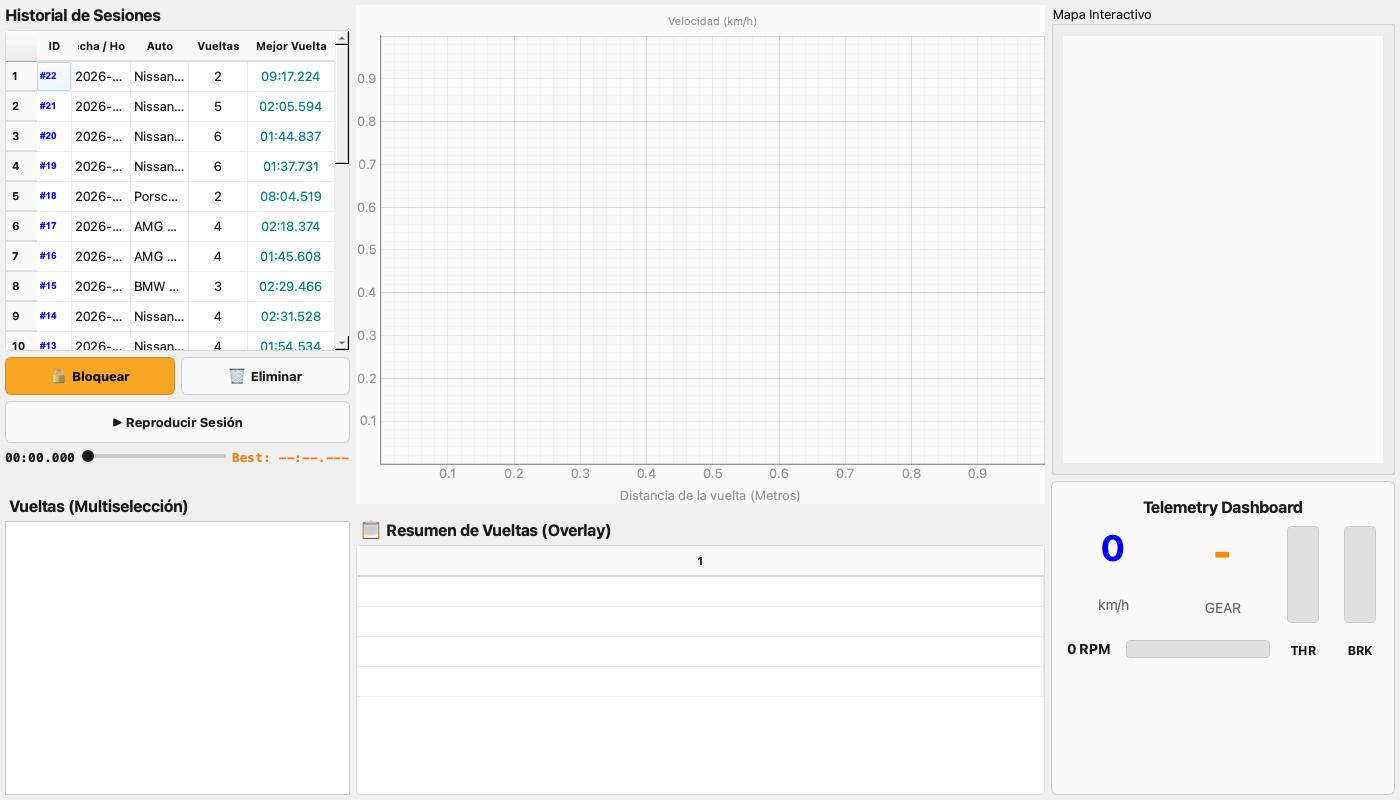
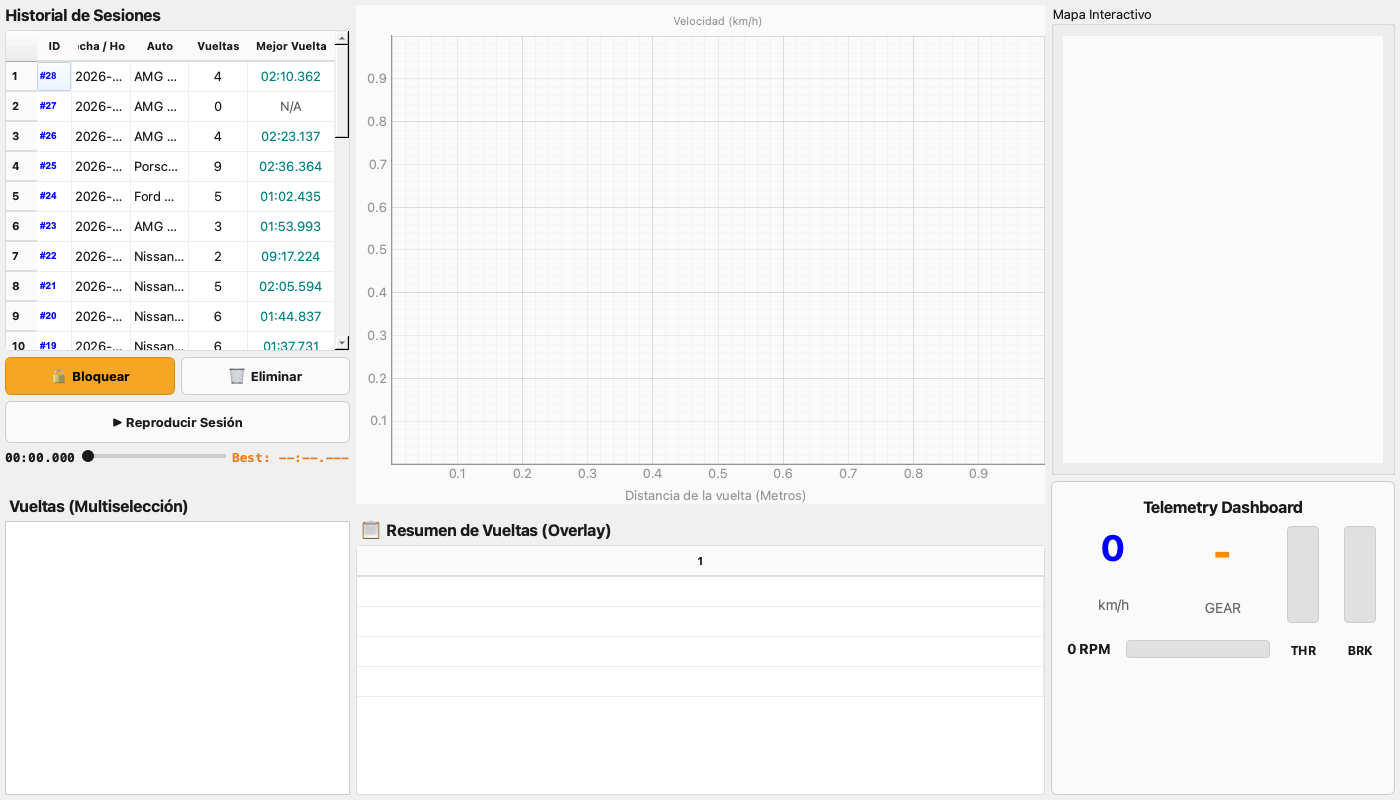
docs: Actualizar documentación técnica, Wiki, capturas y reglas de IA (v1.2.4)

diff --git a/.changelog/CHANGELOG_TECNICO.md b/.changelog/CHANGELOG_TECNICO.md
@@ -1,5 +1,29 @@
 # 📋 Registro Técnico de Cambios
 
+## docs: Actualización de documentación técnica, Wiki, capturas y reglas de IA
+
+| Campo | Detalle |
+|-------|---------|
+| **Fecha** | 2026-07-21 10:36:00 |
+| **Autor** | David Mendez ([email redacted]) |
+| **Branch** | master |
+| **Tipo** | Documentation |
+
+### Archivos Modificados
+
+| Archivo | Estado | Descripción del Cambio |
+|---------|--------|----------------------|
+| `README.md` | Modificado | Actualización de badge a v1.2.4, incorporación de detalles del hotfix QSS y auto-detección de thumbnails, regeneración de capturas y mapa de datos. |
+| `.agents/AGENTS.md` | Modificado | Actualización a versión 1.2.4, formalización de la regla de empaquetado QSS/thumbnails y adición de la Regla 23 de Caché de Vehículos. |
+| `.ai/architecture.md` | Modificado | Sincronización del grafo y árbol de arquitectura con 580 autos, 570 thumbnails PNG y 121 layouts. |
+| `docs/analysis_mode.png` | Modificado | Regeneración de captura para la documentación con datos de simulación actualizados. |
+| `docs/pro_analysis.png` | Modificado | Regeneración de captura para la vista Pro Analysis Workspace. |
+| `wiki/Home.md` | Modificado | Sincronización de versión a 1.2.4 e índice de navegación. |
+| `wiki/_Sidebar.md` | Modificado | Actualización de badge lateral a v1.2.4. |
+| `wiki/Dashboard-Principal.md` | Modificado | Actualización de métrica de líneas de código (684) y documentación del widget de Auto-Detección de vehículos con caché `_current_car_code`. |
+
+---
+
 ## Release v1.2.4 — Fix UI macOS styles y versión bump
 
 | Campo | Detalle |

diff --git a/.changelog/CHANGELOG_PROYECTO.md b/.changelog/CHANGELOG_PROYECTO.md
@@ -1,5 +1,27 @@
 # 📊 Registro de Avances del Proyecto
 
+## ✅ Actualización Integral de Documentación, Wiki y Recursos Gráficos
+
+| Campo | Detalle |
+|-------|---------|
+| **Fecha** | 2026-07-21 10:36:00 |
+| **Responsable** | David Mendez |
+
+### ¿Qué se realizó?
+
+Se revisó minuciosamente la totalidad de la documentación del proyecto, el archivo principal de lectura (`README.md`), los manuales internos de la Wiki y las guías de inteligencia artificial. Se generaron nuevamente todas las capturas de pantalla de la interfaz con los nuevos estilos y se sincronizó el número de versión a la versión estable 1.2.4.
+
+### ¿Qué significa para el proyecto?
+
+- Mantiene el repositorio completamente ordenado, actualizado y profesional para colaboradores, usuarios y clientes.
+- Garantiza que los agentes de desarrollo futuros conozcan las últimas reglas de arquitectura (como la gestión en caché de imágenes y empaquetado de estilos).
+
+### ¿Qué va a notar el usuario/cliente?
+
+- El sitio y el repositorio del proyecto ahora reflejan fielmente las pantallas y funciones exactas de la última versión 1.2.4.
+
+---
+
 ## ✅ Lanzamiento de versión 1.2.4: Correcciones de Diseño Visual en Botones
 
 | Campo | Detalle |

diff --git a/README.md b/README.md
@@ -10,7 +10,7 @@
   <p>
     <img src="https://img.shields.io/badge/Python-3.10+-blue.svg" alt="Python Version">
     <img src="https://img.shields.io/badge/GUI-PyQt6-green.svg" alt="PyQt6">
-    <img src="https://img.shields.io/badge/Version-1.1.3-purple.svg" alt="Version">
+    <img src="https://img.shields.io/badge/Version-1.2.4-purple.svg" alt="Version">
     <img src="https://img.shields.io/badge/macOS-Native%20Support-lightgrey.svg" alt="macOS Support">
     <img src="https://img.shields.io/badge/Windows-Native%20Support-lightgrey.svg" alt="Windows Support">
     <img src="https://img.shields.io/badge/License-MIT-yellow.svg" alt="License">
@@ -42,12 +42,15 @@ Una plataforma analítica de código abierto diseñada para extraer y transforma
 
 ## 🆕 Novedades
 
+### 🚀 v1.2.4 — Hotfix de Interfaz Gráfica (macOS / Windows Bundles)
+- 🎨 **Estilos QSS en Producción:** Se empaquetan y cargan dinámicamente los estilos globales `daylight_theme.qss` mediante `resource_path()` en ejecutables distribuidos (`.app` y `.exe`), asegurando botones estilizados con bordes redondeados (*pill buttons*) e impidiendo que el motor nativo de macOS renderice botones planos o cuadrados.
+
 ### 📸 v1.2.3 — Visualización Fotográfica y Bases de Datos Offline
 La experiencia en el muro de boxes sube de nivel con reconocimiento visual de vehículos instantáneo y datos de máxima precisión:
 
-- 🖼️ **Thumbnail In-Game a 60 FPS:** El panel de información ahora detecta tu telemetría y renderiza una fotografía ampliada de tu vehículo en tiempo real. Su sistema de caché inteligente evita *stuttering*.
-- 🚘 **580 Autos Oficiales Offline:** Base de datos corregida con nomenclaturas oficiales (incluyendo Hypercars 2024/2025). Cuenta con 570 fotografías integradas nativamente para funcionar 100% sin conexión a internet.
-- 🛣️ **Topografía Precisa:** Depuración de circuitos "fantasma", ajustando el motor heurístico estrictamente a los 121 layouts vigentes del simulador.
+- 🖼️ **Thumbnail In-Game a 60 FPS:** El panel de información detecta la telemetría en tiempo real y renderiza la fotografía ampliada del vehículo en pista. Su sistema de caché inteligente previene *stuttering*.
+- 🚘 **580 Autos Oficiales Offline:** Base de datos estandarizada con nomenclaturas oficiales (incluyendo Hypercars 2024/2025) y 570 fotografías HD integradas nativamente para operar 100% offline.
+- 🛣️ **Topografía Precisa:** Depuración de circuitos no oficiales, ajustando el motor heurístico estrictamente a los 121 layouts vigentes de GT7.
 
 ![Dashboard con Thumbnail Fotográfico](docs/main_window.png)
 
@@ -152,9 +155,10 @@ GT7TelemetryPro/
 │   ├── theme.py        # Sistema centralizado de tokens de diseño
 │   └── widgets/        # Componentes reutilizables (gauges, mapas, gráficas)
 │
-├── data/               # Datos estáticos
-│   ├── gt7_cars.json   # Base de datos de 2,500+ autos de GT7
-│   └── tracks.json     # 122 pistas con heurísticas de distancia
+├── data/               # Datos estáticos y activos visuales
+│   ├── gt7_cars.json   # Base de datos de 580 autos estandarizados de GT7
+│   ├── car_thumbnails/ # 570 imágenes HD en formato PNG para despliegue 100% offline
+│   └── tracks.json     # 121 layouts de pistas oficiales con heurísticas de distancia
 │
 └── main.py             # Entry point con aislamiento de datos por plataforma
 ```

diff --git a/.agents/AGENTS.md b/.agents/AGENTS.md
@@ -1,7 +1,7 @@
 # Reglas Estrictas para Agentes IA en GT7 Telemetry Pro
 
-> **Versión de referencia:** 1.1.3  
-> **Última actualización:** 2026-07-18
+> **Versión de referencia:** 1.2.4  
+> **Última actualización:** 2026-07-21
 
 ## Reglas Inquebrantables de Arquitectura
 
@@ -113,7 +113,8 @@
     - La reproducción corre en un hilo daemon separado. Emite `playback_finished` al terminar.
 
 20. **QSS y Estilos Globales**:
-    - El archivo `ui/styles/daylight_theme.qss` define los estilos base de la aplicación (QGroupBox, QLabel, scrollbars, etc.) y se carga al inicializar `TelemetryMainWindow`.
+    - El archivo `ui/styles/daylight_theme.qss` define los estilos base de la aplicación (QGroupBox, QLabel, scrollbars, etc.) y se carga al inicializar `TelemetryMainWindow` obligatoriamente mediante `core/car_database.py:resource_path('ui/styles/daylight_theme.qss')`.
+    - **Empaquetado PyInstaller:** El archivo `GT7TelemetryPro.spec` DEBE incluir `('ui/styles/*.qss', 'ui/styles')` y `('data/car_thumbnails', 'data/car_thumbnails')` en el arreglo `datas` para garantizar que los estilos y activos visuales no se pierdan en producción.
     - Existe un `ui/styles/dark_theme.qss` como **plantilla experimental solamente**. Está prohibido activarlo en producción — toda la app debe funcionar exclusivamente en Modo Diurno.
     - Los estilos QSS complementan (no reemplazan) los tokens de `Theme`. QSS maneja estilos globales de widgets; `Theme` maneja estilos específicos inyectados por código.
 
@@ -125,3 +126,7 @@
     - El diálogo `FormulaManagerWidget` en `ui/formula_manager.py` es la interfaz CRUD para crear, editar y eliminar canales matemáticos definidos por el usuario.
     - Toda validación de fórmulas **DEBE** pasar por `DynamicMathEngine.validate_expression()` (que internamente ejecuta `SafeMathVisitor`) antes de guardarse en `math_channels.json`.
     - El widget incluye un botón de "dry-run" que permite al usuario probar la fórmula contra datos reales antes de confirmar.
+
+23. **Auto-Detección y Caché de Thumbnails de Vehículos**:
+    - El panel de información detecta el código de vehículo (`car_code`) en vivo a través del paquete de telemetría y renderiza su imagen correspondiente ubicada en `data/car_thumbnails/`.
+    - Para mantener el estándar Zero-Stutter a 60 FPS, la UI DEBE almacenar el `_current_car_code` en memoria y **únicamente recargar y escalar el `QPixmap` cuando el código cambie**, evitando operaciones I/O de disco repetitivas en cada fotograma del `ui_timer`.

diff --git a/.ai/architecture.md b/.ai/architecture.md
@@ -1,7 +1,7 @@
 # Archivo de Contexto de Arquitectura (IA)
-## Proyecto: GT7 Telemetry Pro — v1.1.3
+## Proyecto: GT7 Telemetry Pro — v1.2.4
 
-> **Última actualización:** 2026-07-18  
+> **Última actualización:** 2026-07-21  
 > **Total archivos Python:** 33  
 > **Total líneas de código fuente:** ~8,500
 
@@ -67,9 +67,10 @@ GT7TelemetryPro/
 │       ├── delta_widget.py              # Delta-T rolling graph (verde=faster, rojo=slower)
 │       └── gforce_widget.py             # G-force scatter (lateral vs longitudinal, ±2G)
 │
-├── data/                            # Datos estáticos
-│   ├── gt7_cars.json                # 800+ autos de GT7 (id → maker/name/full_name)
-│   └── tracks.json                  # 122+ pistas (length_m, elevation_diff_m, num_corners)
+├── data/                            # Datos estáticos y activos visuales
+│   ├── gt7_cars.json                # 580 autos estandarizados (id → maker/name/thumbnail)
+│   ├── car_thumbnails/              # 570 imágenes HD PNG para despliegue 100% offline
+│   └── tracks.json                  # 121 layouts oficiales (length_m, elevation_diff_m, num_corners)
 │
 ├── tools/                           # Testing y utilidades de desarrollo
 │   ├── test_full_ui_sim.py          # Simulación completa a 60fps con paquetes sintéticos

diff --git a/wiki/Home.md b/wiki/Home.md
@@ -2,7 +2,7 @@
 
 > Convierte tu Gran Turismo 7 en un simulador de telemetría profesional de grado ingenieril.
 
-**Versión actual:** 1.1.3 · **Stack:** Python 3.10+ · PyQt6 · pyqtgraph · NumPy · PyCryptodome  
+**Versión actual:** 1.2.4 · **Stack:** Python 3.10+ · PyQt6 · pyqtgraph · NumPy · PyCryptodome  
 **Plataformas:** macOS 12+ · Windows 10/11 · **Consolas:** PS4 / PS5
 
 ---

diff --git a/wiki/_Sidebar.md b/wiki/_Sidebar.md
@@ -1,6 +1,6 @@
 # 🏁 GT7 Telemetry Pro
 
-**v1.1.3**
+**v1.2.4**
 
 ---
 